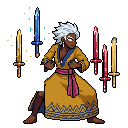
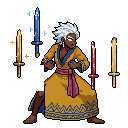
Keep exactly four swords through corrected Entropy transition

diff --git a/scripts/fix_entropy_green_path.py b/scripts/fix_entropy_green_path.py
@@ -27,7 +27,9 @@ blade = blade.crop((30, 39, 44, 90))
 # Front lower sword destination matches the existing golden idle arrangement.
 positions = [(54, 39), (70, 38), (86, 37), (101, 37), (107, 37), (107, 37), (107, 37)]
 for i in range(4, 11):
-    im = images[i].copy()
+    # Hold the pre-surge pose for two frames: the original 9/10 briefly
+    # duplicated the red sword. Keep exactly four distinct blades here.
+    im = images[min(i, 8)].copy()
     # This lane is entirely outside Riley; restore the blue sword, not her body.
     im.paste((0, 0, 0, 0), (30, 0, 44, 91))
     im.alpha_composite(blue, (30, 0))
